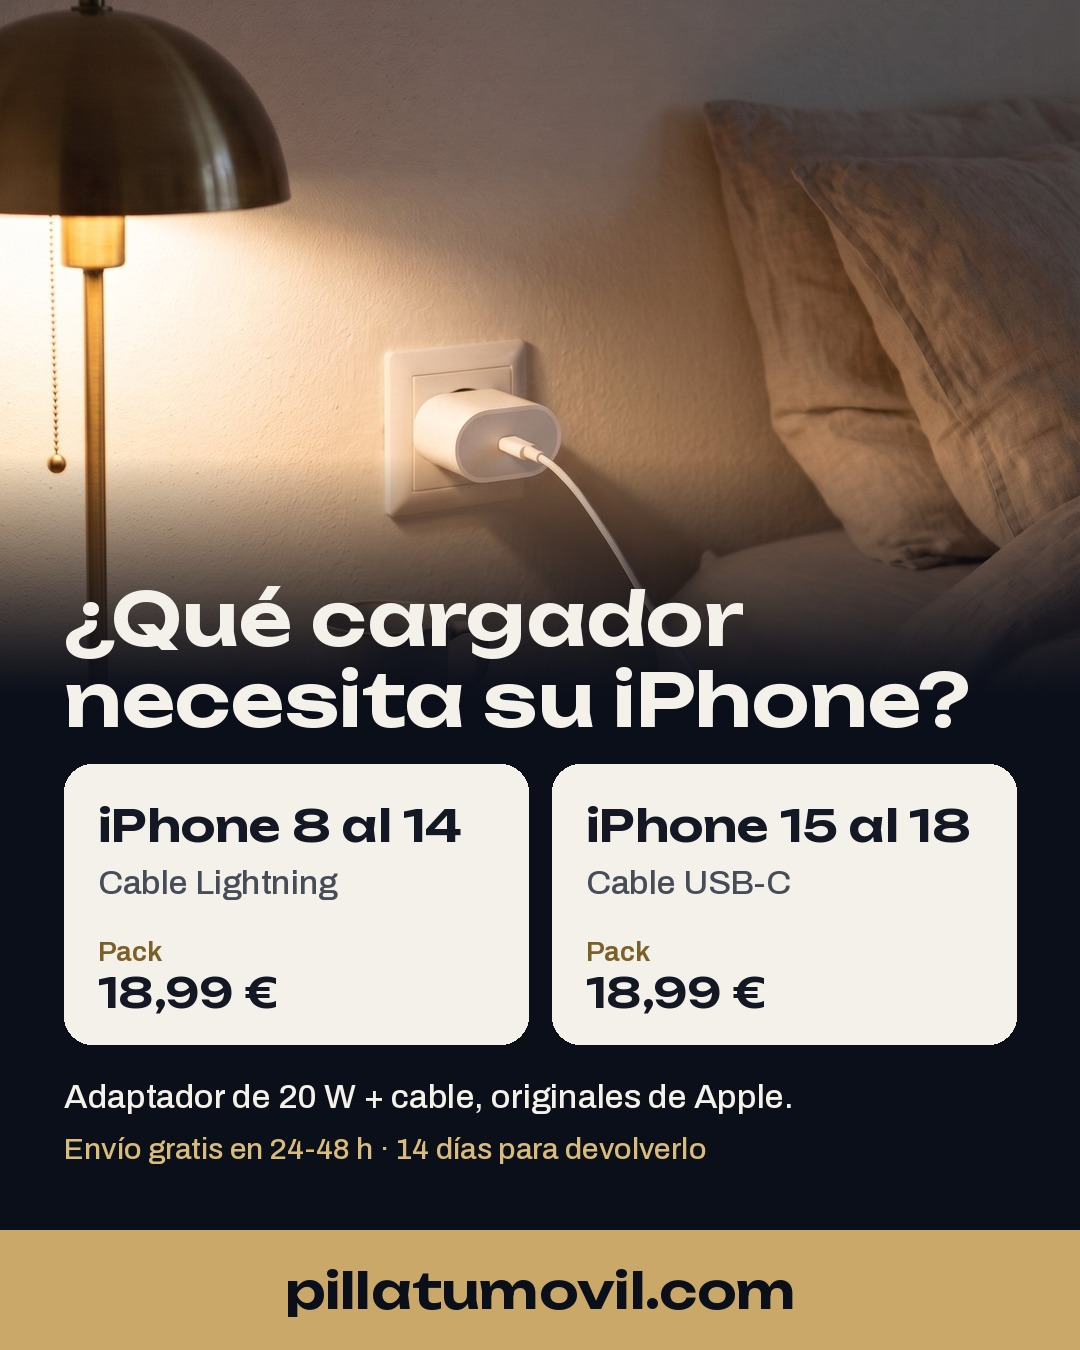
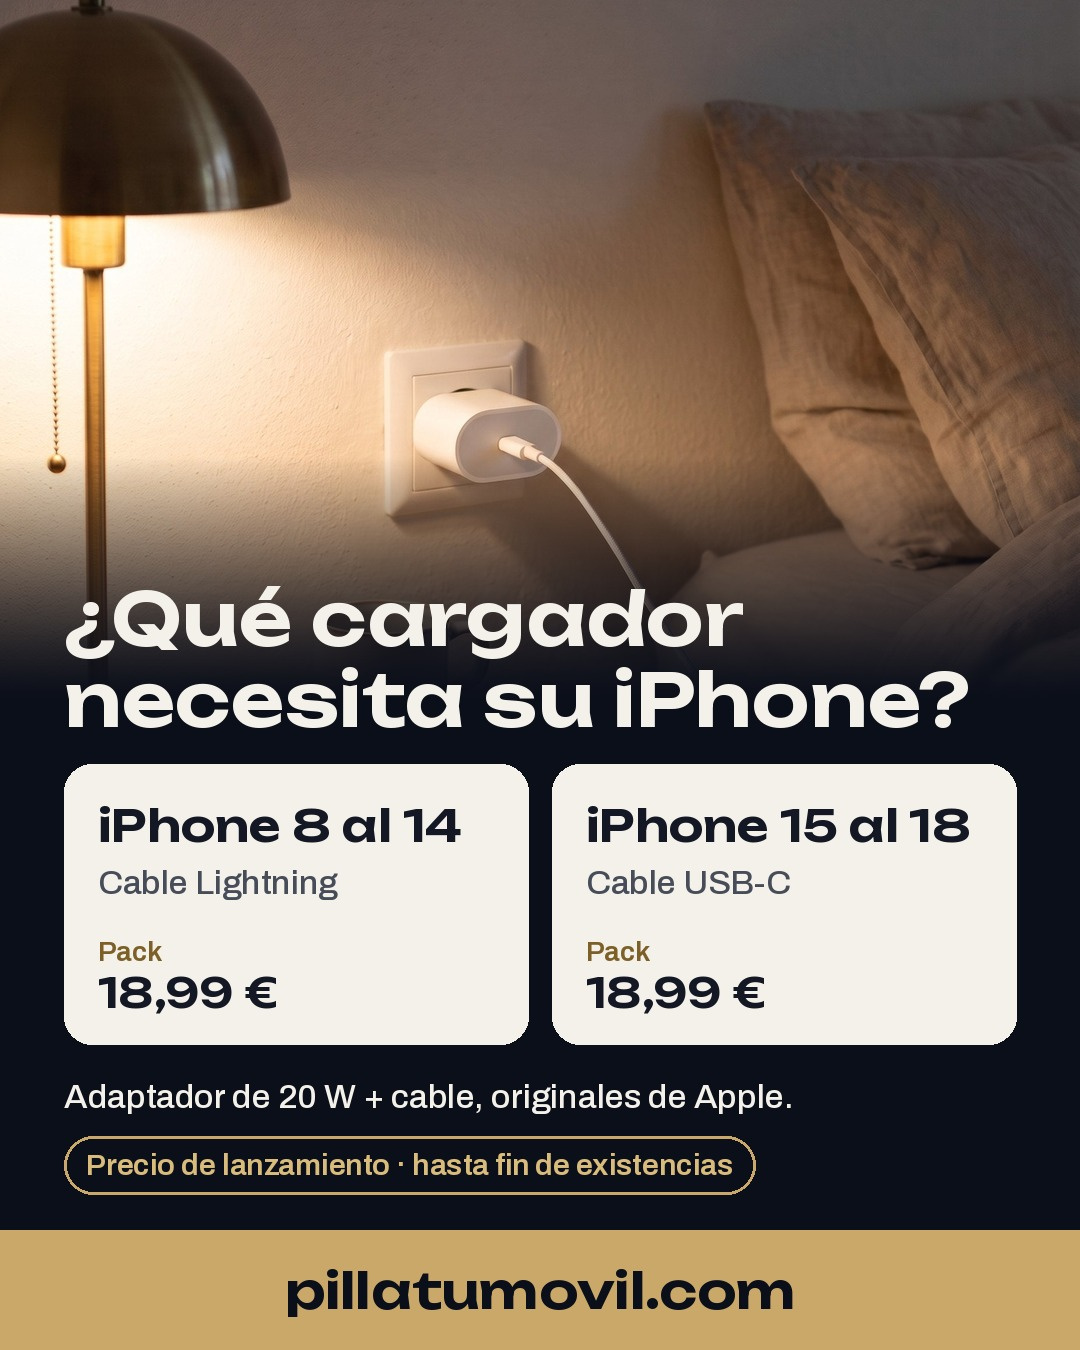
Anuncios v4: precio de lanzamiento hasta fin de existencias y por qué es barato
Claude-Session: https://claude.ai/code/session_01Nc9WKw6CJWQJZcFTdaUv41

Changed region(s): [[0.0611, 0.84, 0.7028, 0.9022]]

diff --git a/pillatumovil/tools/anuncio_tienda.py b/pillatumovil/tools/anuncio_tienda.py
@@ -48,7 +48,11 @@ def anuncio(W, H, top, bot):
     y += th + 34
     d.text((M, y), 'Adaptador de 20 W + cable, originales de Apple.', font=F('Archivo.ttf', 34, 500), fill=MARFIL)
     y += 54
-    d.text((M, y), 'Envío gratis en 24-48 h · 14 días para devolverlo', font=F('Archivo.ttf', 30, 500), fill=ORO_T)
+    y += 4
+    fs = F('Archivo.ttf', 30, 600); t = 'Precio de lanzamiento · hasta fin de existencias'
+    w = d.textlength(t, font=fs)
+    d.rounded_rectangle([M, y, M + w + 44, y + 58], radius=29, outline=ORO, width=3)
+    d.text((M + 22, y + 12), t, font=fs, fill=ORO_T)
     BH = 120; by = H - BH if not story else H - bot - BH
     d.rectangle([0, by, W, by + BH], fill=ORO)
     f = F('Unbounded.ttf', 50, 600); t = 'pillatumovil.com'

diff --git a/pillatumovil/tools/anuncio_meta.py b/pillatumovil/tools/anuncio_meta.py
@@ -87,7 +87,7 @@ def idea(nombre, W, H, safe_top, safe_bot):
     y += fp.size + 22
     d.text((M, y), 'En Apple, 38,00 € (precio del 01/11/2026)', font=fsm, fill=MARFIL2)
     y += 58
-    sello(d, M, y, 'Envío gratis en 24-48 h', fb)
+    sello(d, M, y, 'Precio de lanzamiento · hasta fin de existencias', fb)
     barra(d, W, bar_y, BH)
     return im
 

diff --git a/pillatumovil/anuncios/2026-11/LEEME.md b/pillatumovil/anuncios/2026-11/LEEME.md
@@ -38,3 +38,12 @@ Petición del dueño: «que la gente simplemente tenga que clicar, no buscar el 
 - Publicados: tienda 120250354135760622, A 120250354136280622, B 120250354137560622.
 - Pausados los v2: 120250354076460622, 120250354076720622, 120250354077040622.
 - **Regla para todos los anuncios**: web en grande abajo en la imagen + enlace escrito en la primera línea + botón «Comprar» a los packs.
+
+## v4 (02/11/2026): precio de lanzamiento y por qué es barato
+
+Petición del dueño: «hasta fin de existencias» para enganchar y explicar por qué es tan económico.
+
+- Imagen: el sello pasa a «Precio de lanzamiento · hasta fin de existencias» (es verdad mientras `ps_lanzamiento` esté activo en la web; cuando se acaben las unidades hay que quitarlo de los anuncios también).
+- Texto: «¿Por qué tan barato? Es el mismo producto que vende Apple: compramos por cantidad y ganamos menos en cada pack.»
+- Publicados: tienda 120250354421120622, A 120250354422090622, B 120250354423020622. Pausados los v3.
+- Las revisiones automáticas (diaria 19:47 y lunes 10:13) ya no dependen de los IDs: miran todos los anuncios activos.
